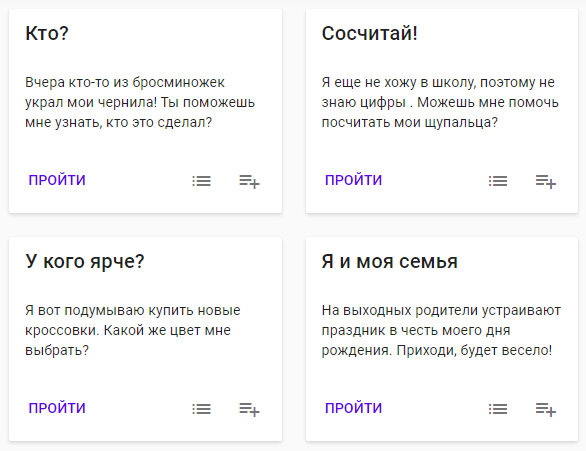
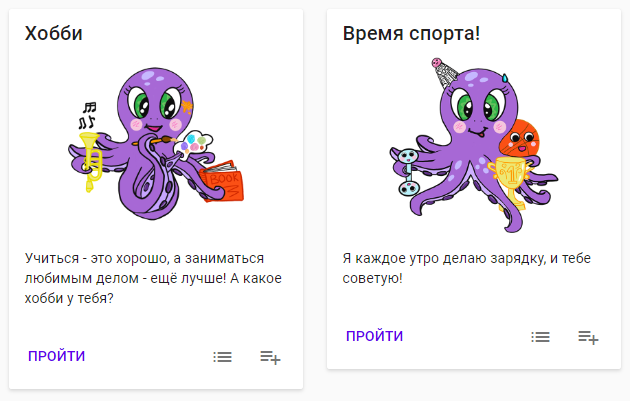
use pictures for word sets, redesign homepage

diff --git a/Website/src/components/routes/WordSets/WordSets.js b/Website/src/components/routes/WordSets/WordSets.js
@@ -9,6 +9,7 @@ import GridItem from 'src/components/core/GridItem';
 import Card from 'src/components/core/Card';
 import CardHeader from 'src/components/core/CardHeader';
 import CardContent from 'src/components/core/CardContent';
+import CardMedia from 'src/components/core/CardMedia';
 import CardActions from 'src/components/core/CardActions';
 import Typography from 'src/components/core/Typography';
 import LinkButton from 'src/components/core/LinkButton';
@@ -16,6 +17,8 @@ import IconButton from 'src/components/core/IconButton';
 import Icon from 'src/components/core/Icon';
 import Space from 'src/components/core/Space';
 import ControlledWordSetPairsAddDialog from './ControlledWordSetPairsAddDialog';
+
+import './WordSets.css';
 
 function WordSets() {
   const wordSets = useSelector(store => store.wordSet.all);
@@ -39,10 +42,17 @@ function WordSets() {
 
   return (
     <Grid spacing={3}>
-      {wordSets.map(({ id, title, description }) => (
+      {wordSets.map(({ id, title, description, picture }) => (
         <GridItem key={id} xs={12} sm={6} md={4} lg={3}>
           <Card>
             <CardHeader title={title} />
+            {picture && (
+              <CardMedia
+                src={picture}
+                alt={title}
+                className="word-set-card-media"
+              />
+            )}
             <CardContent>
               <Typography>{description}</Typography>
             </CardContent>

diff --git a/Website/src/components/routes/Homepage/Homepage.js b/Website/src/components/routes/Homepage/Homepage.js
@@ -51,7 +51,7 @@ function Homepage() {
       <section className="homepage-hero">
         <div className="homepage-hero-content">
           <a href="/">
-            <InWordsLogo height={128} />
+            <InWordsLogo height={128} className="homepage-hero-logo" />
           </a>
           <Typography
             component="h1"
@@ -61,10 +61,21 @@ function Homepage() {
             Система изучения иностранной лексики для начинающих
           </Typography>
           <div className="homepage-hero-buttons-container">
-            <Button color="primary" large onClick={handleSignInAnonymously}>
+            <Button
+              onClick={handleSignInAnonymously}
+              color="primary"
+              large
+              className="homepage-hero-button"
+            >
               Начать без регистрации
             </Button>
-            <LinkButton component={RouterLink} to="/sign-in" large>
+            <LinkButton
+              component={RouterLink}
+              to="/sign-in"
+              color="primary"
+              large
+              className="homepage-hero-button"
+            >
               Войти в аккаунт
             </LinkButton>
           </div>

diff --git a/Website/src/components/routes/Homepage/Homepage.scss b/Website/src/components/routes/Homepage/Homepage.scss
@@ -1,7 +1,7 @@
 @import 'src/theme/mixins';
 
 .homepage-hero {
-  background-color: rgba(0, 0, 0, 0.04);
+  background-color: var(--palette-primary);
   min-height: calc(100vh - 64px);
   display: flex;
   justify-content: center;
@@ -20,7 +20,15 @@
   max-width: var(--breakpoints-md);
 }
 
+.homepage-hero-logo {
+  margin-top: 16px;
+  padding: 16px;
+  border-radius: 2px;
+  background-color: var(--palette-primary-contrast-text);
+}
+
 .homepage-hero-title {
+  color: var(--palette-primary-contrast-text);
   margin-top: 24px;
   padding: 8px;
   text-align: center;
@@ -33,14 +41,18 @@
   flex: 1;
   justify-content: center;
 
-  & > :first-child {
-    margin-right: 24px;
-  }
-
   @include theme-breakpoints-down(sm) {
     flex-direction: column;
+  }
+}
 
-    & > :first-child {
+.homepage-hero-button {
+  border: 1px solid var(--palette-primary-contrast-text);
+
+  &:first-child {
+    margin-right: 24px;
+
+    @include theme-breakpoints-down(sm) {
       margin-right: 0;
       margin-bottom: 16px;
     }

diff --git a/Website/src/components/core/CardMedia/CardMedia.js b/Website/src/components/core/CardMedia/CardMedia.js
@@ -1,0 +1,24 @@
+import React from 'react';
+import PropTypes from 'prop-types';
+import classNames from 'classnames';
+
+import './CardMedia.css';
+
+function CardMedia({ src, alt, className, ...rest }) {
+  return (
+    <img
+      className={classNames('card-media', className)}
+      src={src}
+      alt={alt}
+      {...rest}
+    />
+  );
+}
+
+CardMedia.propTypes = {
+  src: PropTypes.string,
+  alt: PropTypes.string,
+  className: PropTypes.string
+};
+
+export default CardMedia;

diff --git a/Website/src/components/core/ButtonBase/ButtonBase.js b/Website/src/components/core/ButtonBase/ButtonBase.js
@@ -4,9 +4,7 @@ import classNames from 'classnames';
 
 import './ButtonBase.css';
 
-function ButtonBase({ component = 'button', className, ...rest }) {
-  const Component = component;
-
+function ButtonBase({ component: Component = 'button', className, ...rest }) {
   return (
     <Component className={classNames('button-base', className)} {...rest} />
   );

diff --git a/Website/src/components/core/List/List.js b/Website/src/components/core/List/List.js
@@ -5,11 +5,9 @@ import classNames from 'classnames';
 import './List.css';
 
 const List = forwardRef(function List(
-  { component = 'ul', className, ...rest },
+  { component: Component = 'ul', className, ...rest },
   ref
 ) {
-  const Component = component;
-
   return (
     <Component ref={ref} className={classNames('list', className)} {...rest} />
   );

diff --git a/Website/src/components/core/Paper/Paper.js b/Website/src/components/core/Paper/Paper.js
@@ -5,11 +5,9 @@ import classNames from 'classnames';
 import './Paper.scss';
 
 const Paper = forwardRef(function Paper(
-  { component = 'div', depthShadow = 4, className, ...rest },
+  { component: Component = 'div', depthShadow = 4, className, ...rest },
   ref
 ) {
-  const Component = component;
-
   return (
     <Component
       ref={ref}

diff --git a/Website/src/components/core/MenuItem/MenuItem.js b/Website/src/components/core/MenuItem/MenuItem.js
@@ -4,9 +4,7 @@ import classNames from 'classnames';
 
 import './MenuItem.scss';
 
-function MenuItem({ component = 'div', className, ...rest }) {
-  const Component = component;
-
+function MenuItem({ component: Component = 'div', className, ...rest }) {
   return <Component className={classNames('menu-item', className)} {...rest} />;
 }
 

diff --git a/Website/src/components/core/Menu/Menu.js b/Website/src/components/core/Menu/Menu.js
@@ -4,9 +4,7 @@ import classNames from 'classnames';
 
 import './Menu.css';
 
-function Menu({ component = 'ul', className, ...rest }) {
-  const Component = component;
-
+function Menu({ component: Component = 'ul', className, ...rest }) {
   return <Component className={classNames('menu', className)} {...rest} />;
 }
 

diff --git a/Website/src/components/core/ListItem/ListItem.js b/Website/src/components/core/ListItem/ListItem.js
@@ -5,13 +5,12 @@ import classNames from 'classnames';
 import './ListItem.scss';
 
 function ListItem({
-  component = 'li',
+  component: Component = 'li',
   button = false,
   hasSecondaryAction = false,
   className,
   ...rest
 }) {
-  const Component = component;
   const listItemProps = {};
 
   if (button) {

diff --git a/Website/src/components/core/Chip/Chip.js b/Website/src/components/core/Chip/Chip.js
@@ -13,6 +13,7 @@ function Chip({ component = 'div', className, ...rest }) {
 
   return (
     <ButtonBase
+      component={component}
       className={classNames('chip', className)}
       {...chipProps}
       {...rest}

diff --git a/Website/src/components/core/CardMedia/CardMedia.css b/Website/src/components/core/CardMedia/CardMedia.css
@@ -1,0 +1,7 @@
+.card-media {
+  display: block;
+  width: 100%;
+  background-size: cover;
+  background-repeat: no-repeat;
+  background-position: center;
+}
